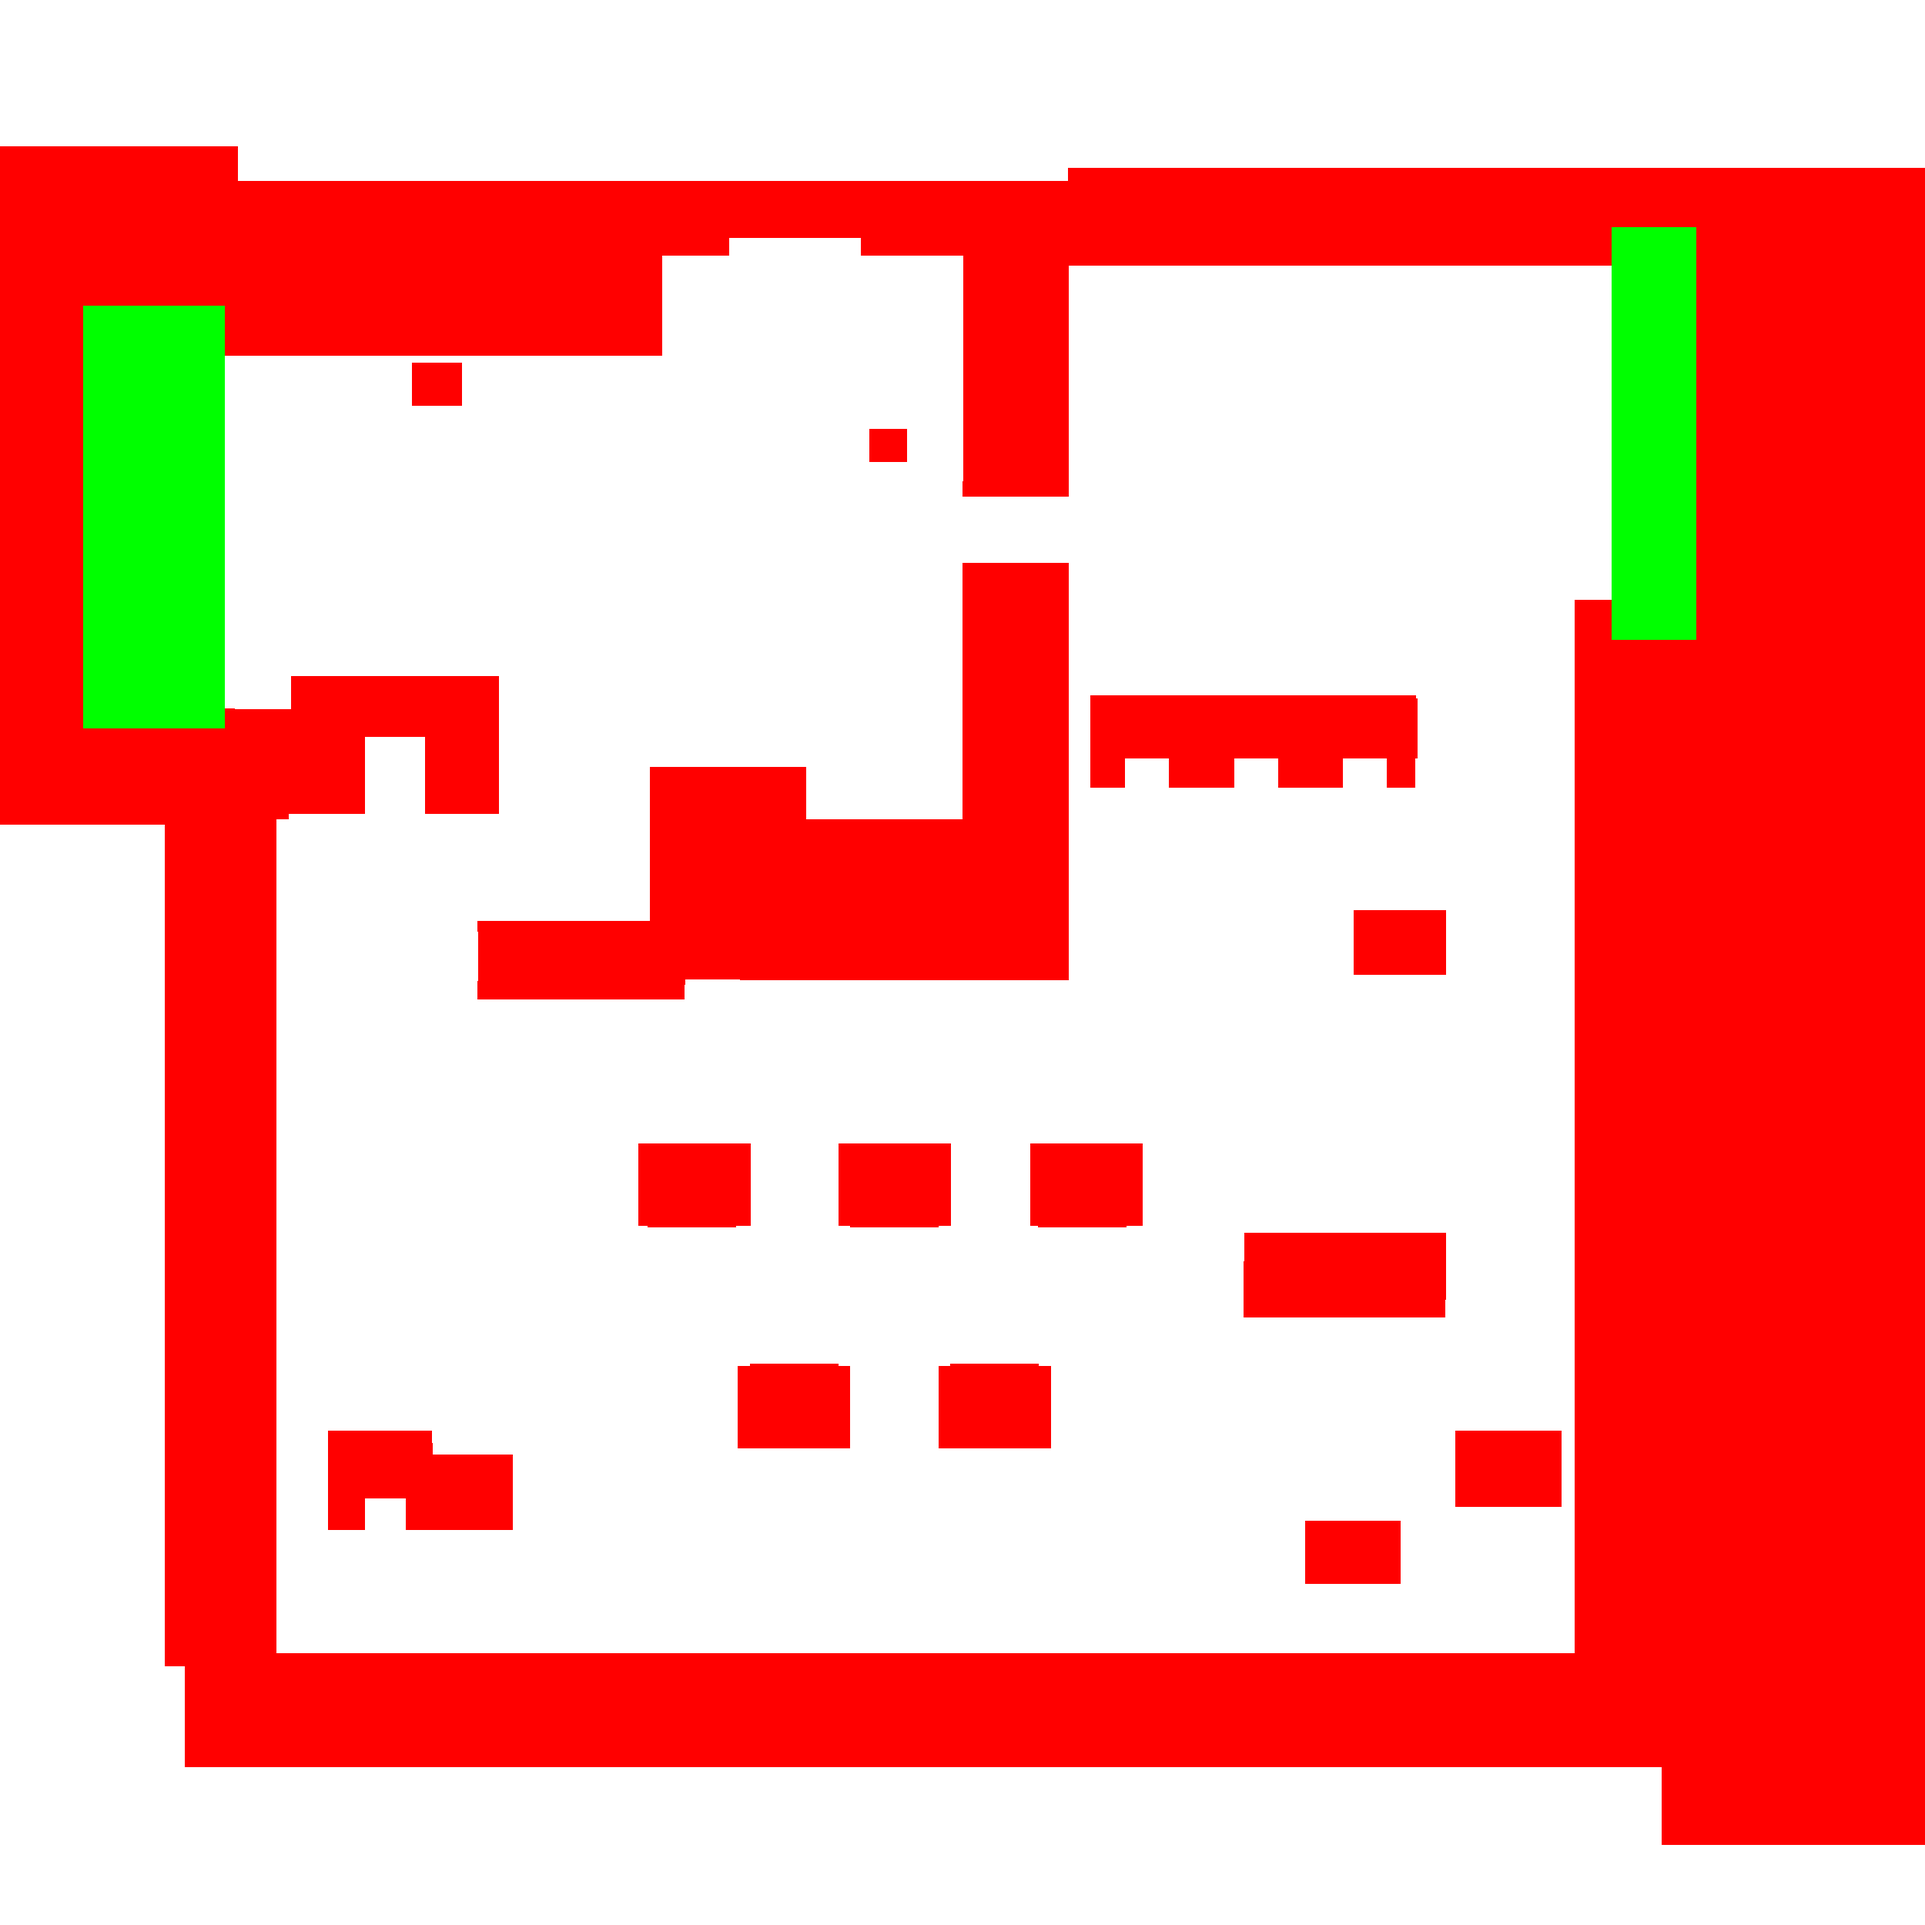
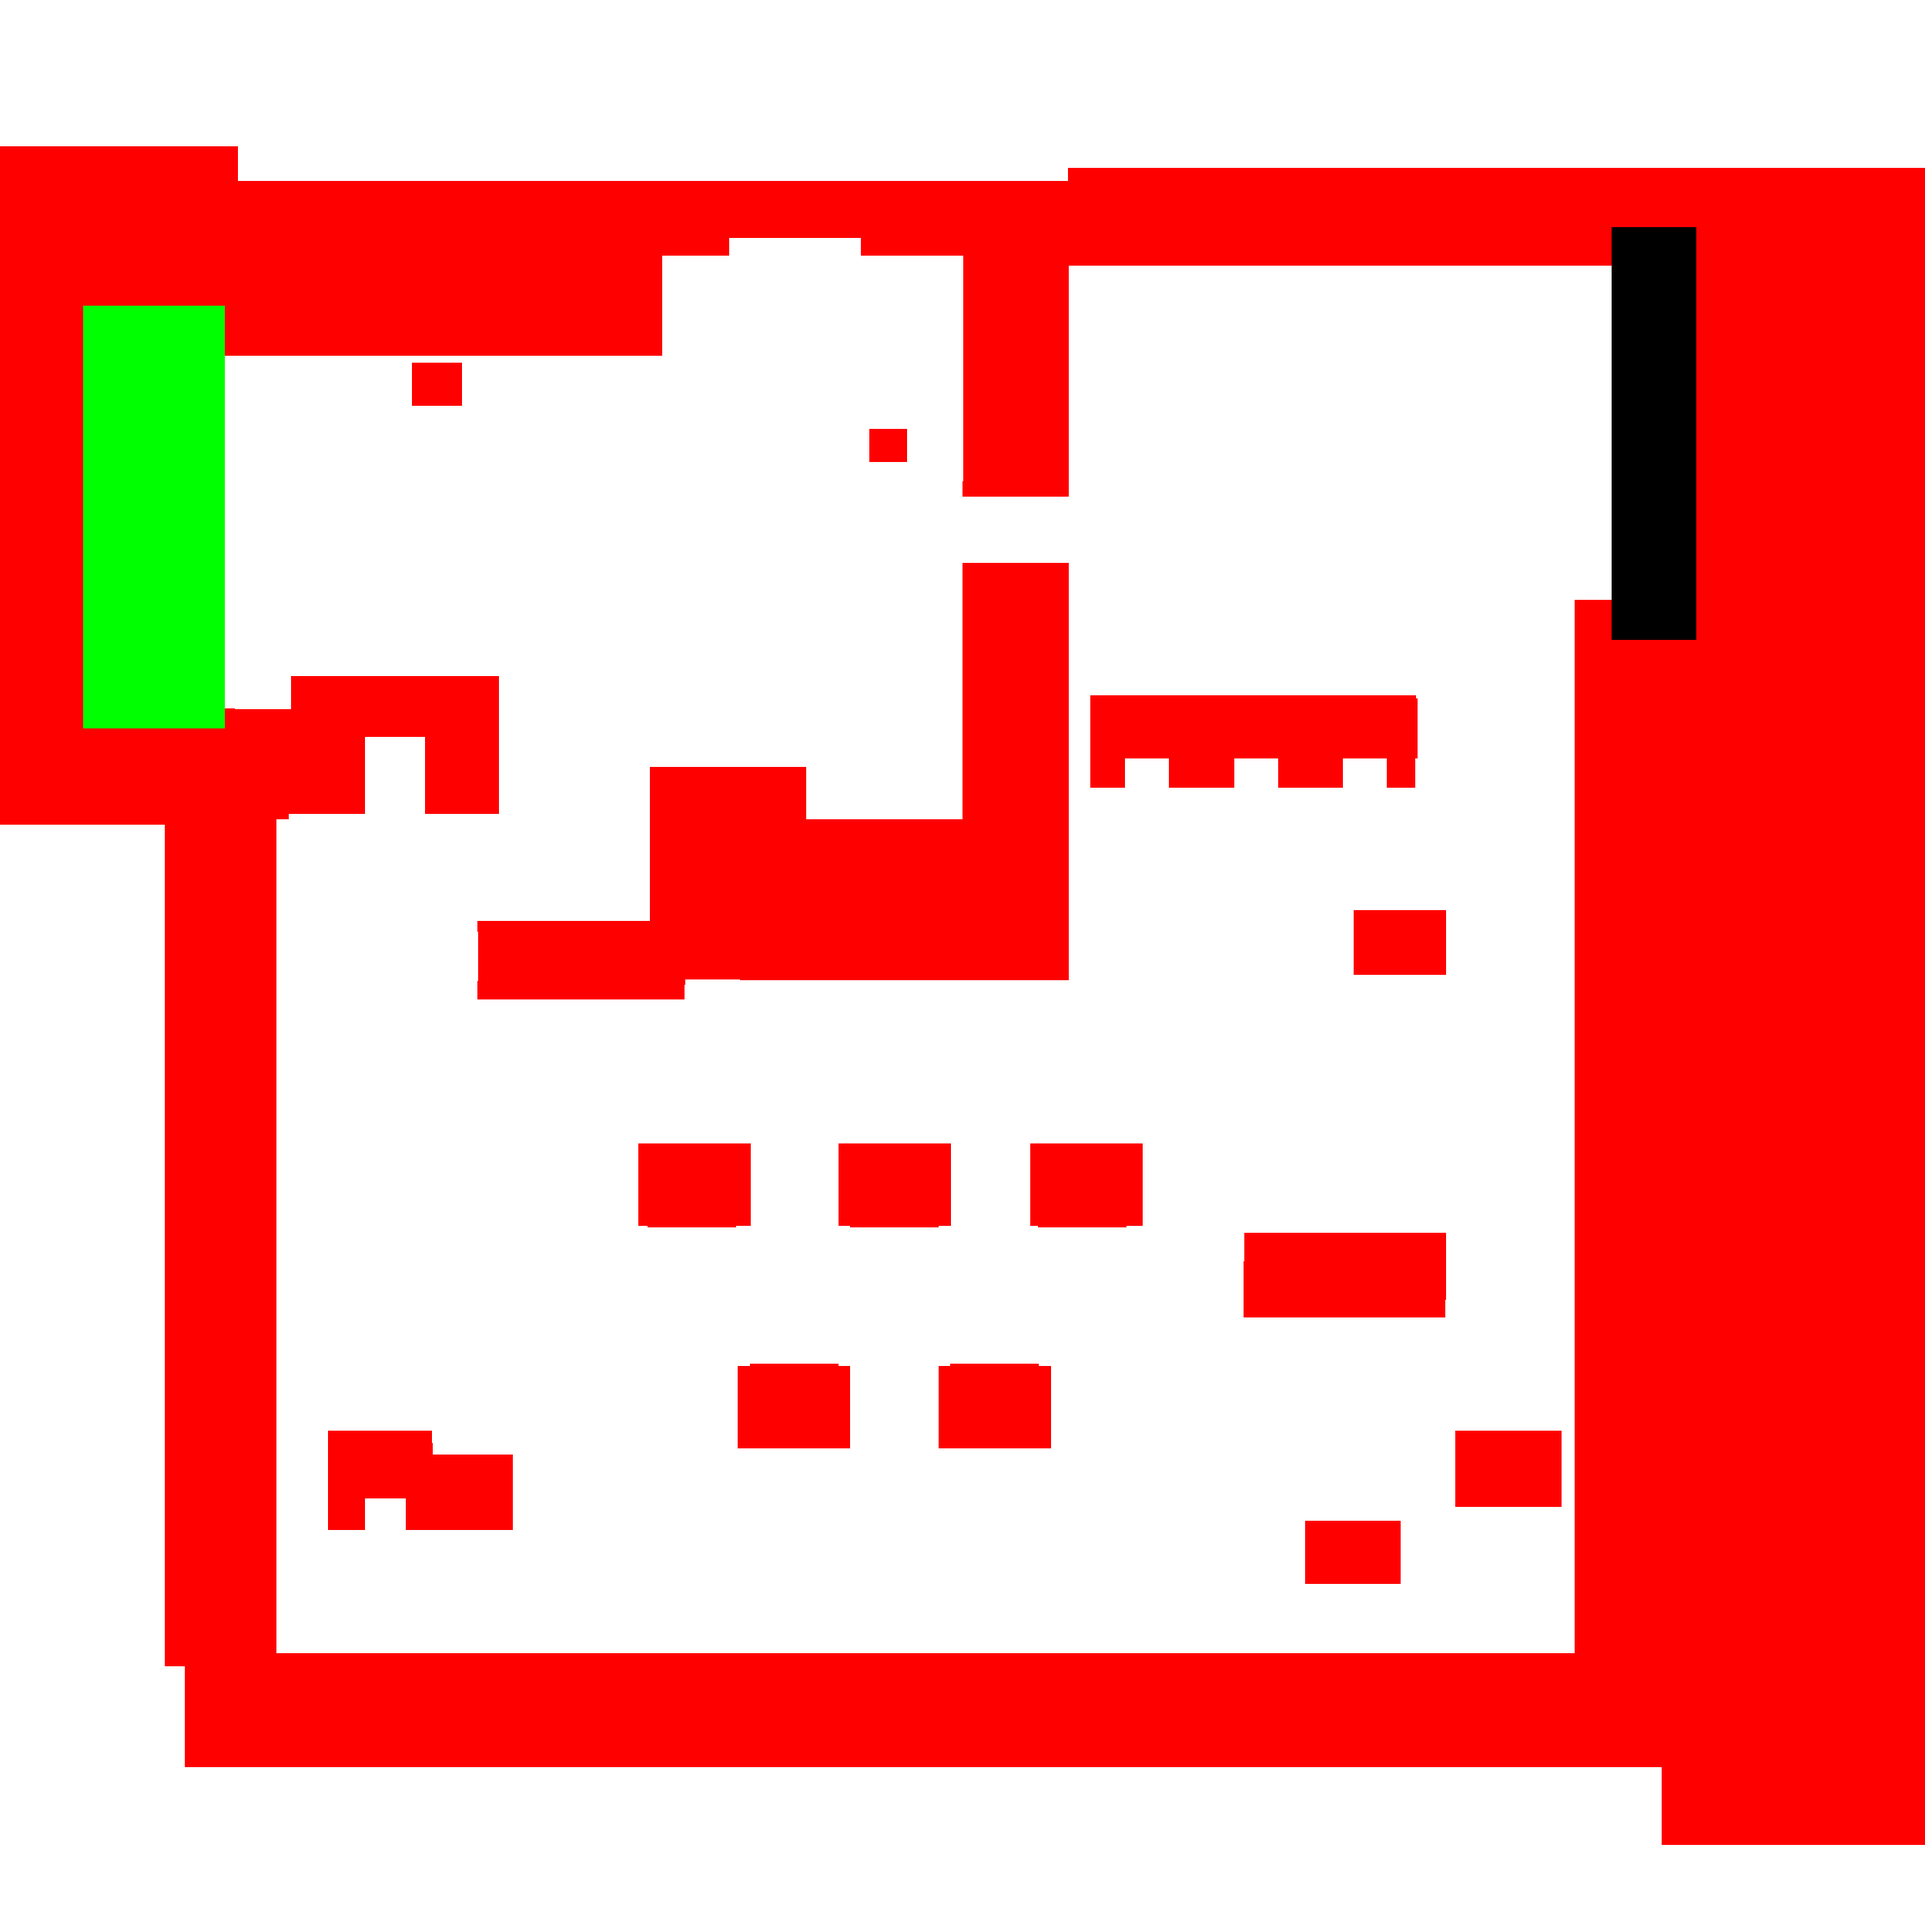
feat (*): can now move to dungeon

Changed region(s): [[0.8112, 0.0936, 0.9048, 0.3432]]

diff --git a/src/events/teleportation.c b/src/events/teleportation.c
@@ -17,12 +17,12 @@ void tp_village(game_t *game, ...)
     free_elements(game->scenes[GAME].elements[6]);
     sfImage_destroy(game->hitbox);
     game->hitbox = sfImage_createFromFile("assets/hitboxes/hitbox.png");
-    game->scenes[GAME].elements[0] = init_element("assets/village.jpg", (sfVector2f){0, 0},
-                            (sfVector2f){1920, 1080}, (sfVector2f){1, 1});
-    game->scenes[GAME].elements[5] = init_element("assets/roof.png", (sfVector2f){0, 0},
-                            (sfVector2f){1920, 1080}, (sfVector2f){1, 1});
-    game->scenes[GAME].elements[6] = init_element("assets/shop_map.png", (sfVector2f){0, 0},
-                            (sfVector2f){1920, 1080}, (sfVector2f){1, 1});
+    game->scenes[GAME].elements[0] = init_element("assets/village.jpg",
+            (sfVector2f){0, 0}, (sfVector2f){1920, 1080}, (sfVector2f){1, 1});
+    game->scenes[GAME].elements[5] = init_element("assets/roof.png",
+            (sfVector2f){0, 0}, (sfVector2f){1920, 1080}, (sfVector2f){1, 1});
+    game->scenes[GAME].elements[6] = init_element("assets/shop_map.png",
+            (sfVector2f){0, 0}, (sfVector2f){1920, 1080}, (sfVector2f){1, 1});
     game->scenes[GAME].elements[2]->pos = (sfVector2f){600, 600};
 }
 
@@ -46,6 +46,23 @@ void tp_forest(game_t *game, ...)
 
 }
 
+void tp_dungeon(game_t *game, ...)
+{
+    game->player->map = 1;
+    free_elements(game->scenes[GAME].elements[0]);
+    free_elements(game->scenes[GAME].elements[5]);
+    free_elements(game->scenes[GAME].elements[6]);
+    sfImage_destroy(game->hitbox);
+    game->hitbox = sfImage_createFromFile("assets/hitboxes/hitbox.png");
+    game->scenes[GAME].elements[0] = init_element("assets/village.jpg",
+            (sfVector2f){0, 0}, (sfVector2f){1920, 1080}, (sfVector2f){1, 1});
+    game->scenes[GAME].elements[5] = init_element("assets/roof.png",
+            (sfVector2f){0, 0}, (sfVector2f){1920, 1080}, (sfVector2f){1, 1});
+    game->scenes[GAME].elements[6] = init_element("assets/shop_map.png",
+            (sfVector2f){0, 0}, (sfVector2f){1920, 1080}, (sfVector2f){1, 1});
+    game->scenes[GAME].elements[2]->pos = (sfVector2f){600, 600};
+}
+
 bool teleportation(game_t *game, sfVector2f move)
 {
     float x = (game->scenes[GAME].elements[2]->pos.x + move.x +
@@ -55,12 +72,17 @@ bool teleportation(game_t *game, sfVector2f move)
     sfColor col = sfImage_getPixel(game->hitbox, x, y);
     sfColor forest = TP_FOREST;
     sfColor village = TP_VILLAGE;
+    sfColor dungeon = TP_DUNGEON;
+    void (*func)(game_t *game, ...) = NULL;
 
-    if (col.r == forest.r && col.g == forest.g && col.b == forest.b) {
-        transition(game, tp_forest);
-        return true;
-    } else if (col.r == village.r && col.g == village.g && col.b == village.b) {
-        transition(game, tp_village);
+    if (col.r == forest.r && col.g == forest.g && col.b == forest.b)
+        func = tp_forest;
+    if (col.r == village.r && col.g == village.g && col.b == village.b)
+        func = tp_village;
+    if (col.r == dungeon.r && col.g == dungeon.g && col.b == dungeon.b && col.a == dungeon.a)
+        func = tp_dungeon;
+    if (func != NULL) {
+        transition(game, func);
         return true;
     }
     return false;

diff --git a/src/initialize/init_scenes.c b/src/initialize/init_scenes.c
@@ -11,26 +11,16 @@
 
 int init_settings_menu(scene_t *scenes, sfRenderWindow *window)
 {
-    scenes[SETTINGS].buttons = settings_buttons();
-    loading(7, window);
-    scenes[SETTINGS].elements = settings_elements();
-    loading(8, window);
-    scenes[SOUNDS].buttons = settings_sounds_buttons();
-    loading(9, window);
-    scenes[SOUNDS].elements = settings_sounds_elements();
-    loading(10, window);
-    scenes[KEY].buttons = settings_key_buttons();
-    loading(11, window);
-    scenes[KEY].elements = settings_key_elements();
-    loading(12, window);
-    scenes[PAUSE].buttons = pause_buttons();
-    loading(13, window);
-    scenes[PAUSE].elements = pause_elements();
-    loading(14, window);
-    scenes[FRAME].buttons = settings_buttons_frame();
-    loading(15, window);
-    scenes[FRAME].elements = settings_elements_frame();
-    loading(16, window);
+    scenes[SETTINGS].buttons = settings_buttons(), loading(7, window);
+    scenes[SETTINGS].elements = settings_elements(), loading(8, window);
+    scenes[SOUNDS].buttons = settings_sounds_buttons(), loading(9, window);
+    scenes[SOUNDS].elements = settings_sounds_elements(), loading(10, window);
+    scenes[KEY].buttons = settings_key_buttons(), loading(11, window);
+    scenes[KEY].elements = settings_key_elements(), loading(12, window);
+    scenes[PAUSE].buttons = pause_buttons(), loading(13, window);
+    scenes[PAUSE].elements = pause_elements(), loading(14, window);
+    scenes[FRAME].buttons = settings_buttons_frame(), loading(15, window);
+    scenes[FRAME].elements = settings_elements_frame(), loading(16, window);
     return EXIT_SUCCESS;
 }
 

diff --git a/include/rpg.h b/include/rpg.h
@@ -156,6 +156,11 @@
     #define TP_VILLAGE (sfColor){0, 0, 255, 255}
 
     ////////////////////////////////////////////////////////////
+    /// \def TP_Dungeon
+    ////////////////////////////////////////////////////////////
+    #define TP_DUNGEON (sfColor){0, 0, 0, 255}
+
+    ////////////////////////////////////////////////////////////
     /// \def TP_FOREST
     ////////////////////////////////////////////////////////////
     #define TP_FOREST (sfColor){0, 255, 0, 255}
